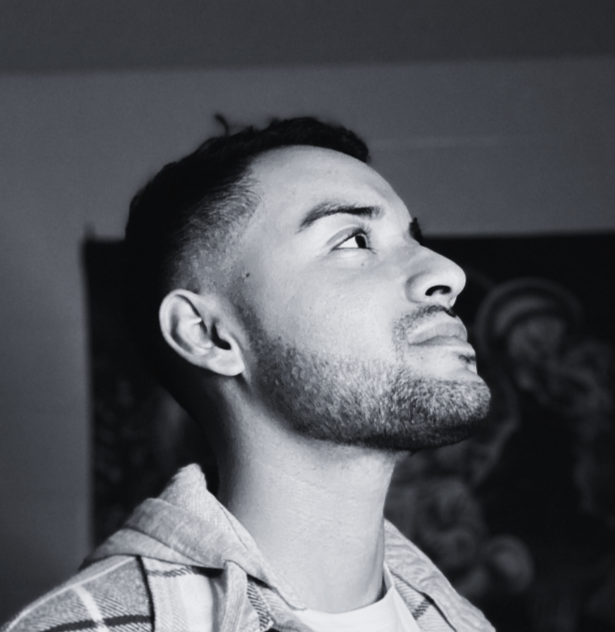
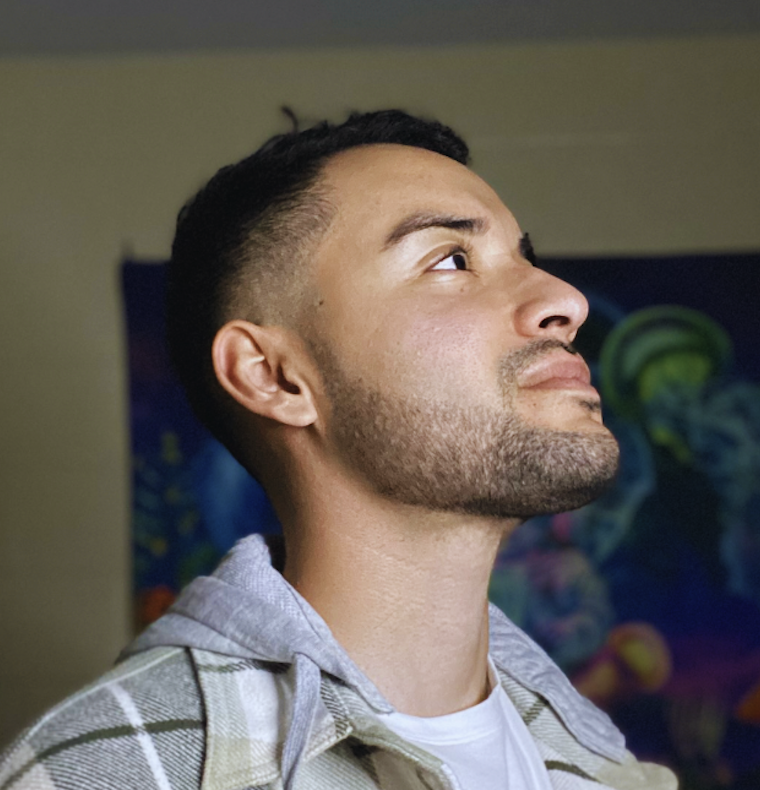
update color pallete to beiche

diff --git a/style.css b/style.css
@@ -9,6 +9,7 @@
 
 body {
   font-family: "Poppins", sans-serif;
+  background-color: bisque;
 }
 
 html {
@@ -60,7 +61,9 @@ a:hover {
 }
 
 .logo {
-  font-size: 2rem;
+  padding-top: 1rem;
+  font-size: 2.6rem;
+  font-weight: 400;
 }
 
 .logo:hover {
@@ -98,11 +101,13 @@ a:hover {
   position: absolute;
   top: 100%;
   right: 0;
-  background-color: white;
+  background-color: #FFDAAC;
   width: fit-content;
   max-height: 0;
   overflow: hidden;
   transition: all 0.3 ease-in-out;
+  border-radius: 5%;
+  border-color: red;
 }
 
 .menu-links a {
@@ -257,7 +262,7 @@ border-radius: 50%;
 }
 
 .btn-color-2 {
-  background: none;
+  background-color: #FEF7F0;
 }
 
 .btn-color-2:hover {
@@ -283,6 +288,7 @@ border-radius: 50%;
 .about-details-container {
   justify-content: center;
   flex-direction: column;
+ 
 }
 
 .about-containers,
@@ -308,6 +314,7 @@ border-radius: 50%;
   border: rgb(53, 53, 53) 0.1rem solid;
   border-color: rgb(163, 163, 163);
   text-align: center;
+  background-color: #FEF6EB;
 }
 
 .section-container {
@@ -376,6 +383,18 @@ article img {
   background: rgb(250, 250, 250);
 }
 
+.project-one {
+  background-color: #FCF1E5;
+}
+
+.project-two {
+  background-color: #FBEAD7;
+}
+
+.project-three {
+  background-color:#FCF1E5;
+}
+
 .project-img {
   border-radius: 2rem;
   width: 90%;
@@ -406,8 +425,8 @@ article img {
   justify-content: center;
   border-radius: 2rem;
   border: rgb(53, 53, 53) 0.1rem solid;
-  border-color: rgb(163, 163, 163);
-  background: (250, 250, 250);
+  border-color: rgb(249, 242, 235);
+  background: rgb(249, 240, 233);
   margin: 2rem auto;
   padding: 0.5rem;
 }

diff --git a/index.html b/index.html
@@ -289,7 +289,7 @@
       <h1 class="title">Projects</h1>
       <div class="experience-details-container">
         <div class="about-containers">
-          <div class="details-container color-container">
+          <div class="details-container color-container project-one">
             <div class="article-container">
               <img
                 src="./assets/hand-drawing.png"
@@ -314,7 +314,7 @@
               </button> -->
             </div>
           </div>
-          <div class="details-container color-container">
+          <div class="details-container color-container project-two">
             <div class="article-container">
               <img
                 src="./assets/map.png"
@@ -339,7 +339,7 @@
               </button> -->
             </div>
           </div>
-          <div class="details-container color-container">
+          <div class="details-container color-container project-three">
             <div class="article-container">
               <img
                 src="./assets/digg.png"
